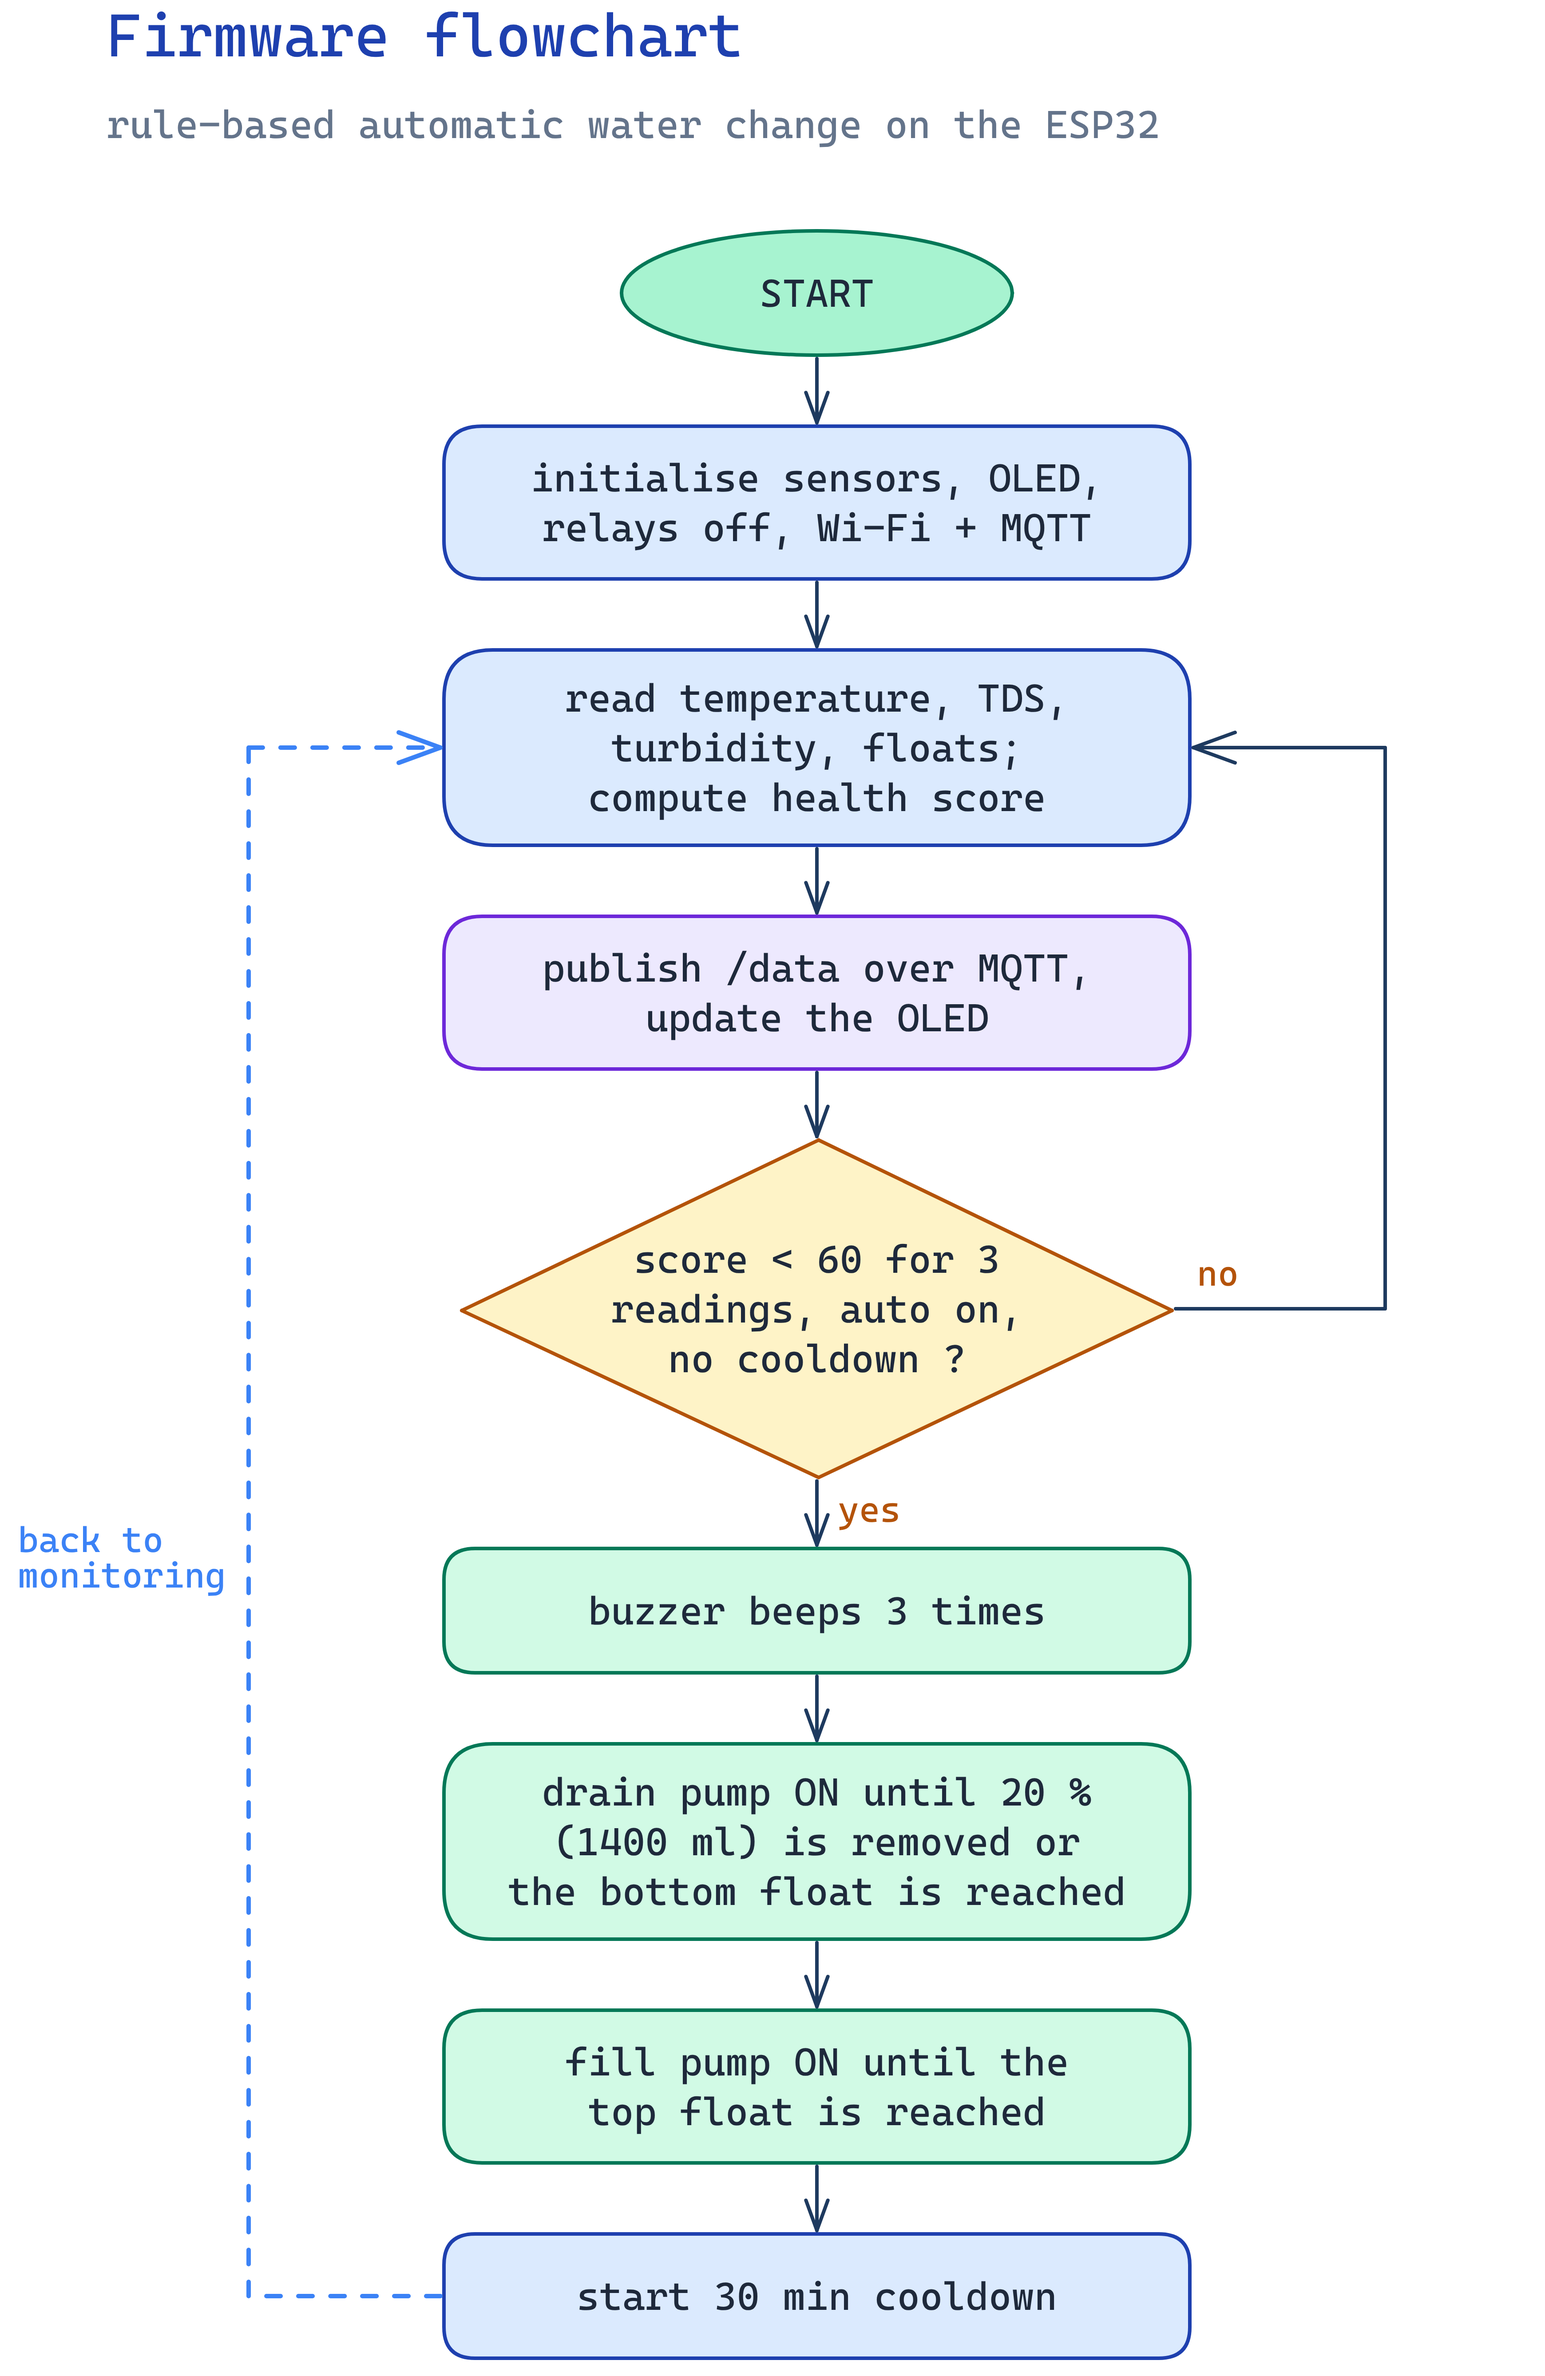
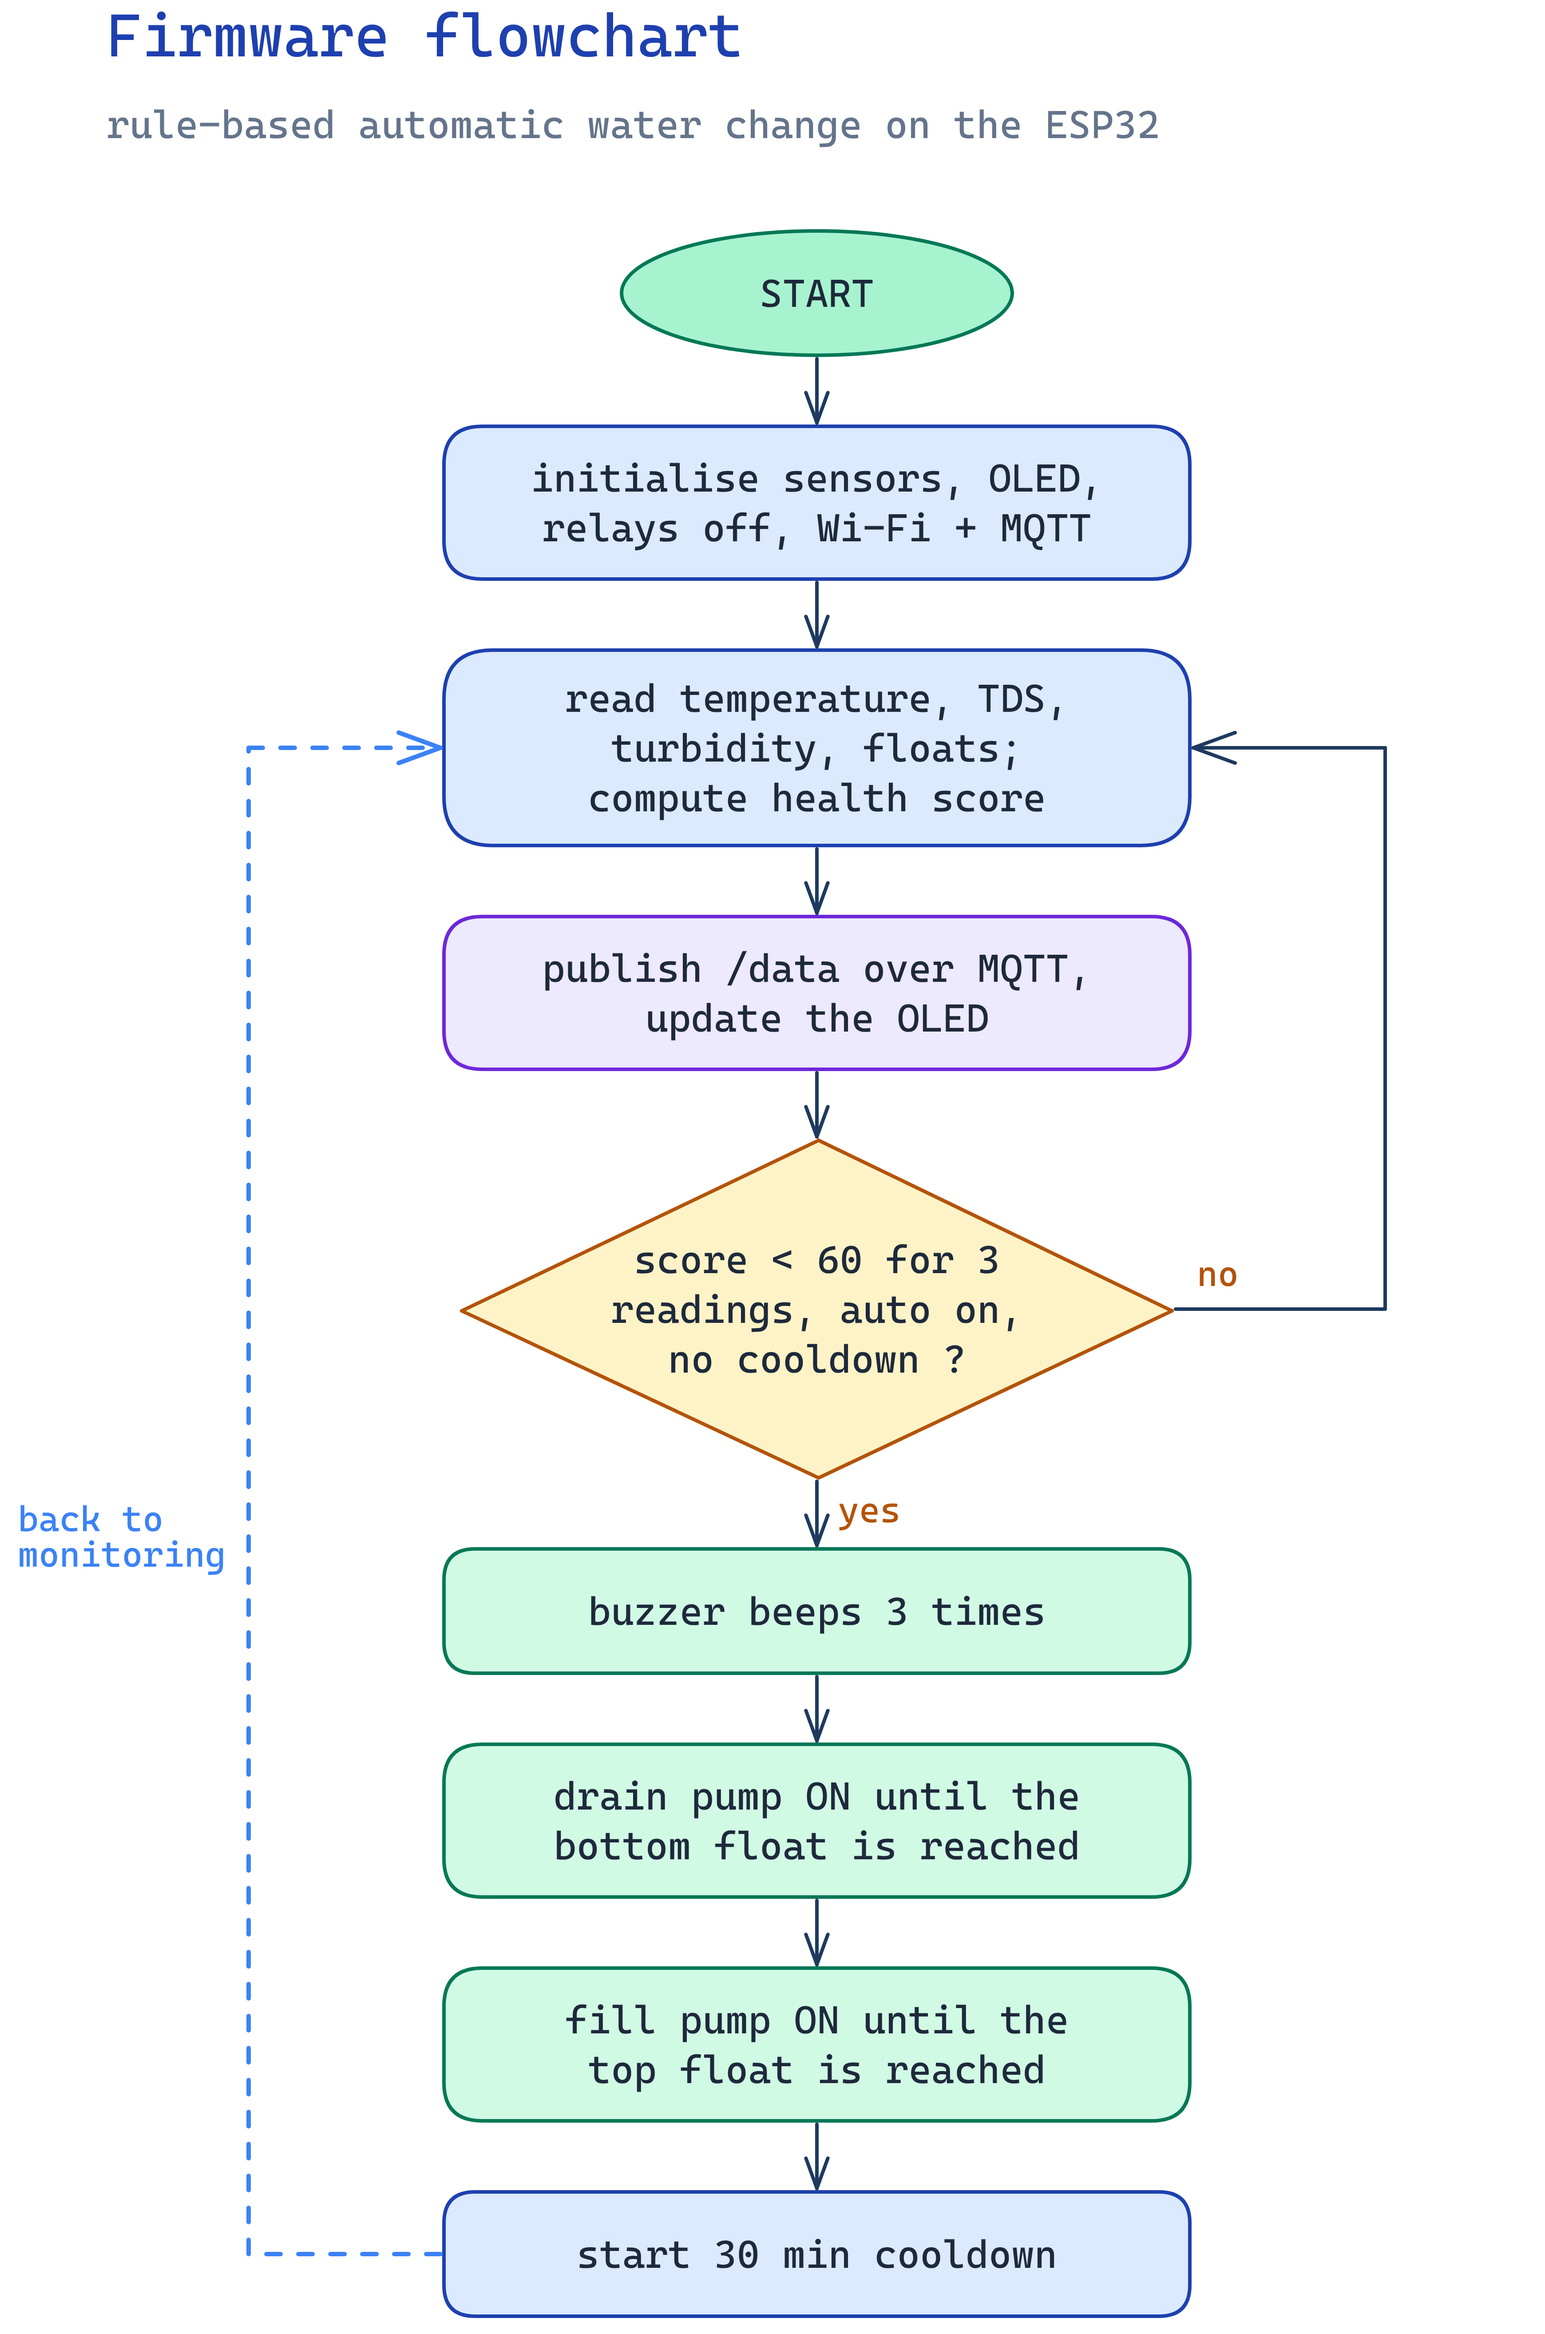
refactor: drain and refill by float switches

diff --git a/server/tools/simulate.js b/server/tools/simulate.js
@@ -6,9 +6,9 @@ const opt = (name, def) => (args.includes(name) ? Number(args[args.indexOf(name)
 const INTERVAL = opt('--interval', 5000);
 const SPEED = opt('--speed', 1);
 
-const TURB_V_CLEAR = 3.87, TDS_GOOD = 300, TDS_BAD = 700, TANK_ML = 7000, ML_PER_SEC = 15.8;
+const TURB_V_CLEAR = 3.87, TDS_GOOD = 300, TDS_BAD = 700, LEVEL_PER_SEC = 0.003, LOW_LEVEL = 0.75;
 let tds = 220, turbV = 3.85, temp = 26.5, dirt = 0;
-let state = 'idle', auto = 1, demo = 0, lowCount = 0, pct = 0, target = 0, drained = 0, filled = 0;
+let state = 'idle', auto = 1, demo = 0, lowCount = 0, level = 1;
 let cooldownUntil = 0, drain = 0, fill = 0;
 
 const c = mqtt.connect(MQTT_URL, { will: { topic: `${TOPIC_BASE}/status`, payload: 'offline', retain: true } });
@@ -25,9 +25,7 @@ function score(turbIdx) {
 
 function startChange(why) {
   if (state !== 'idle') return;
-  const p = 20;
-  pct = p; target = TANK_ML * p / 100; drained = filled = 0;
-  state = 'draining'; drain = 1; event('state', 'draining', p, why); event('actuator', 'drain', 1, why);
+  state = 'draining'; drain = 1; event('state', 'draining', 0, why); event('actuator', 'drain', 1, why);
 }
 
 c.on('connect', () => {
@@ -60,8 +58,8 @@ setInterval(() => {
   turbV = TURB_V_CLEAR - 1.6 * dirt + (Math.random() - 0.5) * 0.02;
   temp += (Math.random() - 0.5) * 0.05;
 
-  if (state === 'draining') { drained += ML_PER_SEC * dt; if (drained >= target) { drain = 0; event('actuator', 'drain', 0, 'target reached'); state = 'filling'; fill = 1; event('state', 'filling', pct, 'refill'); event('actuator', 'fill', 1, 'refill'); } }
-  else if (state === 'filling') { filled += ML_PER_SEC * dt; if (filled >= drained) { fill = 0; dirt *= 1 - pct / 100; state = 'idle'; cooldownUntil = Date.now() + (demo ? 60000 : 1800000) / SPEED; event('actuator', 'fill', 0, 'top float'); event('state', 'idle', pct, `change done ${pct}%`); lowCount = 0; } }
+  if (state === 'draining') { level = Math.max(level - LEVEL_PER_SEC * dt, LOW_LEVEL); if (level <= LOW_LEVEL) { drain = 0; event('actuator', 'drain', 0, 'bottom float'); state = 'filling'; fill = 1; event('state', 'filling', 0, 'refill until top float'); event('actuator', 'fill', 1, 'refill'); } }
+  else if (state === 'filling') { level = Math.min(level + LEVEL_PER_SEC * dt, 1); if (level >= 1) { fill = 0; dirt *= LOW_LEVEL; state = 'idle'; cooldownUntil = Date.now() + (demo ? 60000 : 1800000) / SPEED; event('actuator', 'fill', 0, 'top float'); event('state', 'idle', 0, 'change done'); lowCount = 0; } }
 
   const turbIdx = Math.min(Math.max((TURB_V_CLEAR - turbV) / 1.5 * 100, 0), 100);
   const s = score(turbIdx);
@@ -71,6 +69,6 @@ setInterval(() => {
     startChange('auto R1');
   }
   pub('data', { ts: ts(), src: 'sim', t_tank: +temp.toFixed(2), tds: +tds.toFixed(1), tds_v: +(tds / 400).toFixed(3),
-    turb: +turbIdx.toFixed(1), turb_v: +turbV.toFixed(3), ph: null, ph_v: null, flow: drain ? +(ML_PER_SEC * 0.06).toFixed(2) : 0,
-    vol_ml: Math.round(drained), f_top: state === 'idle' ? 1 : 0, f_bot: 0, score: s, state, drain, fill, feeder: 0, buzzer: 0, auto, demo });
+    turb: +turbIdx.toFixed(1), turb_v: +turbV.toFixed(3), ph: null, ph_v: null,
+    f_top: level >= 1 ? 1 : 0, f_bot: level <= LOW_LEVEL ? 1 : 0, score: s, state, drain, fill, feeder: 0, buzzer: 0, auto, demo });
 }, INTERVAL);

diff --git a/server/components/dashboard/ReadingsPanel.tsx b/server/components/dashboard/ReadingsPanel.tsx
@@ -11,9 +11,16 @@ type Props = {
 };
 
 function pumpText(reading: Reading | null) {
-  if (reading?.drain) return `draining ${formatNumber(reading.flow, 2)} L/min`;
-  if (reading?.fill) return 'refilling';
-  return 'pump idle';
+  if (reading?.drain) return 'draining to the bottom float';
+  if (reading?.fill) return 'refilling to the top float';
+  return 'pumps idle';
+}
+
+function levelText(reading: Reading | null) {
+  if (!reading) return '--';
+  if (reading.f_top) return 'full';
+  if (reading.f_bot) return 'low';
+  return 'normal';
 }
 
 function predictionText(prediction: Prediction) {
@@ -63,13 +70,11 @@ export default function ReadingsPanel({ reading, recent, prediction }: Props) {
       </div>
 
       <div className="reading">
-        <span className="label">Drained this change</span>
+        <span className="label">Water level</span>
         <div className="value">
-          <span className="num">{formatNumber(reading?.vol_ml, 0)}</span>
-          <span className="unit">ml</span>
+          <span className="word">{levelText(reading)}</span>
         </div>
         <span className="sub">{pumpText(reading)}</span>
-        <Sparkline values={recent.map((row) => row.vol_ml)} />
       </div>
 
       <div className={`reading model ${prediction?.prediction ?? ''}`}>

diff --git a/server/lib/db.ts b/server/lib/db.ts
@@ -18,7 +18,7 @@ export function q<T extends Record<string, any> = Record<string, any>>(sql: stri
 }
 
 export const COLS = [
-  't_tank', 'tds', 'tds_v', 'turb', 'turb_v', 'ph', 'ph_v', 'flow', 'vol_ml', 'f_top', 'f_bot',
+  't_tank', 'tds', 'tds_v', 'turb', 'turb_v', 'ph', 'ph_v', 'f_top', 'f_bot',
   'score', 'state', 'drain', 'fill', 'feeder', 'buzzer', 'auto', 'demo', 'ml',
 ] as const;
 
@@ -31,7 +31,7 @@ const SCHEMA = `
     device_ts BIGINT,
     t_tank DOUBLE PRECISION, tds DOUBLE PRECISION, tds_v DOUBLE PRECISION,
     turb DOUBLE PRECISION, turb_v DOUBLE PRECISION, ph DOUBLE PRECISION, ph_v DOUBLE PRECISION,
-    flow DOUBLE PRECISION, vol_ml DOUBLE PRECISION, f_top SMALLINT, f_bot SMALLINT,
+    f_top SMALLINT, f_bot SMALLINT,
     score SMALLINT, state TEXT, drain SMALLINT, fill SMALLINT, feeder SMALLINT,
     buzzer SMALLINT, auto SMALLINT, demo SMALLINT,
     ml TEXT,

diff --git a/server/components/dashboard/ControlPanel.tsx b/server/components/dashboard/ControlPanel.tsx
@@ -171,7 +171,7 @@ export default function ControlPanel({ reading, latestEvent, deviceOnline }: Pro
           <div className="row">
             <button className={`btn ${isPending('change') ? 'is-pending' : ''}`} disabled={disabled || !!pending || changeRunning}
               onClick={() => request(changeRequest)}>
-              Start water change (20%)
+              Start water change
             </button>
             <button className={`btn danger ${isPending('stop') ? 'is-pending' : ''}`} disabled={disabled}
               onClick={() => request(stopRequest)}>

diff --git a/server/components/dashboard/HealthPanel.tsx b/server/components/dashboard/HealthPanel.tsx
@@ -15,7 +15,7 @@ export default function HealthPanel({ reading, lastChange }: Props) {
   if (reading) autoText = reading.auto ? (reading.demo ? 'On, demo timing' : 'On') : 'Off';
 
   let lastChangeText = '--';
-  if (lastChange) lastChangeText = `${String(lastChange.detail).replace('change done ', '')} at ${formatTime(lastChange.epoch)}`;
+  if (lastChange) lastChangeText = formatTime(lastChange.epoch);
 
   return (
     <div className={`panel score ${hasScore ? scoreLevel(score) : ''}`}>

diff --git a/server/lib/client/types.ts b/server/lib/client/types.ts
@@ -8,8 +8,8 @@ export type Reading = {
   tds_v: number | null;
   turb: number | null;
   turb_v: number | null;
-  flow: number | null;
-  vol_ml: number | null;
+  f_top: number | null;
+  f_bot: number | null;
   score: number | null;
   state: string | null;
   drain: number | null;

diff --git a/firmware/iot_project/config.h b/firmware/iot_project/config.h
@@ -41,15 +41,12 @@
 #define TDS_BAD            700.0f   // (CAL) refill-water ppm + 400
 #define PH_SLOPE          -4.863f   // (CAL) only if USE_PH
 #define PH_OFFSET         19.075f
-#define DRAIN_ML_PER_SEC   15.8f    // (CAL) measured: 236.59 ml in 15 s
-#define TANK_WATER_ML      7000.0f  // (CAL) water volume in the tank
 #define FLOAT_TOP_TRIGGERED_LEVEL LOW
 #define FLOAT_BOT_TRIGGERED_LEVEL HIGH
 
 // ---------- Automation ----------
 #define SCORE_THRESHOLD        60
 #define LOW_READINGS_TO_ACT     3
-#define CHANGE_PCT             20     // share of the tank drained per water change
 #define COOLDOWN_MS       1800000UL   // 30 min (60 s in demo mode)
 #define SETTLE_MS            3000UL   // pause between drain and fill
 #define CYCLE_MS             5000UL   // sensor cycle and publish interval

diff --git a/README.md b/README.md
@@ -24,8 +24,8 @@ iot/
 
 | Persyaratan | Di kode |
 |---|---|
-| ESP32, minimal 3 sensor | DS18B20 (suhu), TDS, turbidity, float switch atas dan bawah (+ volume buang perkiraan) |
-| Minimal 2 aktuator, rule-based | Pompa buang dan pompa isi (relay), buzzer, dan OLED. Aturan R1 (skor < 60 tiga kali → buzzer 3 beep, buang 20% atau sampai float bawah), R2 (isi sampai float atas), R3 (cooldown 30 menit) |
+| ESP32, minimal 3 sensor | DS18B20 (suhu), TDS, turbidity, float switch atas dan bawah |
+| Minimal 2 aktuator, rule-based | Pompa buang dan pompa isi (relay), buzzer, dan OLED. Aturan R1 (skor < 60 tiga kali → buzzer 3 beep, pompa buang nyala), R2 (float bawah → berhenti buang, isi sampai float atas), R3 (float atas → selesai, cooldown 30 menit) |
 | MQTT | `TOPIC_BASE/data` tiap 5 detik, `/event`, `/cmd`, `/status` |
 | Penyimpanan terus-menerus | PostgreSQL: tabel `readings` dan `events` |
 | Dashboard | Nilai live, status aktuator, grafik riwayat, tombol kontrol, log event. Ada juga dashboard Node-RED di `nodered/` |
@@ -42,8 +42,8 @@ PubSubClient (Nick O'Leary), ArduinoJson (Benoit Blanchon, versi 7).
 **Langkah:**
 1. Buka `firmware/iot_project/iot_project.ino` (folder `iot_project` harus berisi `iot_project.ino` dan `config.h`).
 2. Di `config.h` isi `WIFI_SSID`, `WIFI_PASS`. `TOPIC_BASE` boleh dibiarkan, asal sama dengan server.
-3. Cek nilai kalibrasi: `TURB_V_CLEAR` (tegangan turbidity di air bening), `DRAIN_ML_PER_SEC` (15,8 dari tes Anda),
-   `TANK_WATER_ML` (volume air di bak). Pompa isi berhenti di float atas, jadi tidak perlu kalibrasi.
+3. Cek nilai kalibrasi `TURB_V_CLEAR` (tegangan turbidity di air bening). Pompa berhenti di float, jadi tidak ada kalibrasi volume.
+   Banyaknya air yang diganti ditentukan oleh jarak float atas ke float bawah.
 4. Upload, buka Serial Monitor 115200, akhir baris **Newline**.
 
 **Pin** (sama dengan sketch tes terakhir): OLED/ADS1115 SDA D21, SCL D22 · DS18B20 D4 · daya TDS D13 ·
@@ -89,7 +89,7 @@ Kalau Wi-Fi kampus memblokir MQTT (port 1883), pakai hotspot HP untuk ESP32 dan 
 
 ## 2b. Dashboard Node-RED
 
-Flow di `nodered/flows.json` subscribe ke `TOPIC_BASE/data` dan `/status` di broker.hivemq.com, lalu menampilkan gauge (skor, TDS, turbidity, suhu), status pompa, grafik 1 jam terakhir, dan tombol perintah (ganti air 20%, stop, tes buzzer, mode auto) yang dikirim ke `TOPIC_BASE/cmd`. Firmware tidak perlu diubah, dan bisa jalan bersamaan dengan dashboard Next.js.
+Flow di `nodered/flows.json` subscribe ke `TOPIC_BASE/data` dan `/status` di broker.hivemq.com, lalu menampilkan gauge (skor, TDS, turbidity, suhu), status pompa, grafik 1 jam terakhir, dan tombol perintah (ganti air, stop, tes buzzer, mode auto) yang dikirim ke `TOPIC_BASE/cmd`. Firmware tidak perlu diubah, dan bisa jalan bersamaan dengan dashboard Next.js.
 
 Butuh Node.js 18 atau lebih baru:
 
